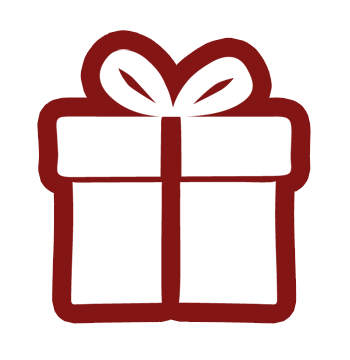
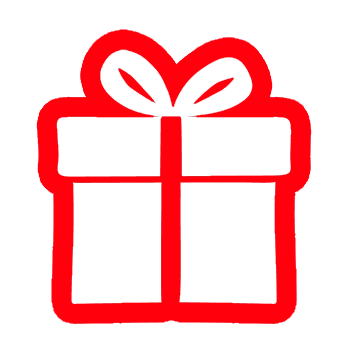
Backend integration proceed

diff --git a/frontend/app/views/index.scala.html b/frontend/app/views/index.scala.html
@@ -10,7 +10,7 @@
 
     <!-- Navigation -->
     <!-- Note: navbar-default and navbar-inverse are both supported with this theme. -->
-    <nav class="navbar navbar-inverse navbar-fixed-top navbar-expanded">
+    <nav id="index-nav" class="navbar navbar-inverse navbar-fixed-top navbar-expanded">
         <div class="container">
             <!-- Brand and toggle get grouped for better mobile display -->
             <div class="navbar-header">
@@ -21,7 +21,8 @@
                     <span class="icon-bar"></span>
                 </button>
                 <a class="navbar-brand page-scroll" href="#page-top">
-                    <img src='@routes.Assets.versioned("images/logo-blue.png")' class="img-responsive" alt="">
+                    @*<img src='@routes.Assets.versioned("images/logo-dark-red.png")' class="img-responsive" alt="">*@
+                    <i class="fa fa-gift"></i>
                 </a>
             </div>
             <!-- Collect the nav links, forms, and other content for toggling -->
@@ -33,19 +34,11 @@
                     <li>
                         <a class="page-scroll" href="#recommend">Find gifts</a>
                     </li>
-                    @*
-                    <li>
-                        <a class="page-scroll" href="#process">Process</a>
-                    </li>
-                    <li>
-                        <a class="page-scroll" href="#work">Work</a>
-                    </li>
-                    *@
-                    <li>
-                        <a class="page-scroll" href="#contact">Contact</a>
-                    </li>
                     <li>
                         <a class="page-scroll" href="#about">About</a>
+                    </li>
+                    <li>
+                        <a class="page-scroll" href="#contact">Contact</a>
                     </li>
                 </ul>
             </div>
@@ -55,9 +48,9 @@
     </nav>
     <header>
         <div class="intro-content">
-            @*<i class="fa fa-gift" style="font-size: 12em;"></i>*@
-            <img src='@routes.Assets.versioned("images/profile-red.png")' class="img-responsive img-centered" alt="">
-            <div class="brand-name">Gifty</div>
+            <i class="fa fa-gift"></i>
+            @*<img src='@routes.Assets.versioned("images/profile-red.png")' class="img-responsive img-centered" alt="">*@
+            <div class="brand-name">@title</div>
             <hr class="colored">
             <div class="brand-name-subtext">find best for those who matter</div>
         </div>
@@ -67,26 +60,18 @@
     </header>
 
 
-    @*
-    <!-- Header -->
-    <header id="top" class="header">
-        <div class="text-vertical-center">
-            <h1>Gifts matter</h1>
-            <h3>Great gifts for any people</h3>
-            <br>
-            <a href="#questions" class="btn btn-dark btn-lg">Find Out More</a>
-        </div>
-    </header>
-    *@
-
-
     <!-- Recommender -->
     <section id="recommend" class="about">
         <div class="container">
             <div class="row">
                 <div class="col-lg-12 text-center">
-                    <h2></h2>
+                    <h2>Find the best gifts</h2>
                     <p class="lead">Please, answer few questions about the gift receiver:</p>
+                    <form id="recommender-form" role="form">
+                        <div class="form-group">
+
+                        </div>
+                    </form>
                 </div>
             </div>
             <!-- /.row -->
@@ -94,23 +79,21 @@
         <!-- /.container -->
     </section>
 
-    @*
-    <footer class="footer" style="background-image: url('@routes.Assets.versioned("index-bg1.jpg")')">
-        <div class="container text-center">
+    <footer class="footer">
+        <div id="contact" class="container text-center">
             <div class="row">
                 <div class="col-md-4 contact-details">
-                    <h4><i class="fa fa-phone"></i> Call</h4>
-                    <p>555-213-4567</p>
-                </div>
-                <div class="col-md-4 contact-details">
-                    <h4><i class="fa fa-map-marker"></i> Visit</h4>
-                    <p>3481 Melrose Place
-                        <br>Beverly Hills, CA 90210</p>
-                </div>
-                <div class="col-md-4 contact-details">
                     <h4><i class="fa fa-envelope"></i> Email</h4>
-                    <p><a href="mailto:mail@example.com">mail@example.com</a>
+                    <p><a href="mailto:gifty-find&#64;gmail.com">gifty-find&#64;gmail.com</a>
                     </p>
+                </div>
+                <div class="col-md-4 contact-details">
+                    <h4><i class="fa fa-github-alt"></i> Contribute</h4>
+                    <p><a href="https://github.com/Azarieled/GiftRecommenderSystem" target="_blank">GitHub Project</a></p>
+                </div>
+                <div class="col-md-4 contact-details">
+                    <h4><i class="fa fa-phone"></i> Call</h4>
+                    <p>+380 (63) 666-14-48</p>
                 </div>
             </div>
             <div class="row social">
@@ -127,18 +110,19 @@
             </div>
             <div class="row copyright">
                 <div class="col-lg-12">
-                    <p class="small">&copy; 2015 Start Bootstrap Themes</p>
+                    <p class="small">&copy; 2015 @title</p>
                 </div>
             </div>
         </div>
     </footer>
-    *@
 
     <script src='@routes.Assets.versioned("lib/jquery-easing/jquery.easing.js")'></script>
     <script src='@routes.Assets.versioned("scripts/plugins/classie.js")'></script>
     <script src='@routes.Assets.versioned("scripts/plugins/cbpAnimatedHeader.js")'></script>
     <script src='@routes.Assets.versioned("lib/owl.carousel/dist/owl.carousel.js")'></script>
     <script src='@routes.Assets.versioned("lib/magnific-popup/dist/jquery.magnific-popup.js")'></script>
+    <script src='@routes.Assets.versioned("lib/mixitup/jquery.mixitup.js")'></script>
+    <script src='@routes.Assets.versioned("lib/WOW/wow.js")'></script>
     <script src='@routes.Assets.versioned("lib/jqbootstrapvalidation/jqBootstrapValidation.js")'></script>
     <script src='@routes.Assets.versioned("scripts/vitality.js")'></script>
     <!-- Vitality Theme Scripts -->

diff --git a/frontend/app/views/basic.scala.html b/frontend/app/views/basic.scala.html
@@ -14,9 +14,10 @@
 
     <!-- Fonts -->
     <link href="@routes.Assets.versioned("lib/font-awesome/css/font-awesome.min.css")" rel="stylesheet" type="text/css">
-    <!-- Default Fonts-->
+    <!-- Default Fonts -->
     <link href='http://fonts.googleapis.com/css?family=Roboto:400,100,100italic,300,300italic,400italic,500,500italic,700,700italic,900,900italic' rel='stylesheet' type='text/css'>
     <link href='http://fonts.googleapis.com/css?family=Raleway:400,100,200,300,600,500,700,800,900' rel='stylesheet' type='text/css'>
+
     <!-- Modern Style Fonts (Include these is you are using body.modern!)
     <link href='http://fonts.googleapis.com/css?family=Montserrat:400,700' rel='stylesheet' type='text/css'>
     <link href='http://fonts.googleapis.com/css?family=Cardo:400,400italic,700' rel='stylesheet' type='text/css'>
@@ -26,6 +27,7 @@
     <link href='http://fonts.googleapis.com/css?family=Cardo:400,400italic,700' rel='stylesheet' type='text/css'>
     -->
     @*<link href="http://fonts.googleapis.com/css?family=Source+Sans+Pro:300,400,700,300italic,400italic,700italic" rel="stylesheet" type="text/css">*@
+    <link href='https://fonts.googleapis.com/css?family=Kaushan+Script' rel='stylesheet' type='text/css'>
 
     <!-- IE8 support for HTML5 elements and media queries -->
     <!--[if lt IE 9]>

diff --git a/frontend/public/stylesheets/index.css b/frontend/public/stylesheets/index.css
@@ -1,5 +1,27 @@
 /* Global Styles */
 
+nav#index-nav {
+    padding-top: 10px;
+    padding-bottom: 10px;
+}
+
+div.intro-content > .brand-name, .intro-content > .brand-name-subtext {
+    font-family: 'Kaushan Script', cursive;
+}
+
+nav .fa-gift {
+    font-size: 2.2em;
+}
+
+div.intro-content > .fa-gift {
+    font-size: 12em;
+}
+
 header {
     background-image: url(../images/index-bg2d.jpg);
+}
+
+footer.footer {
+    background: linear-gradient( rgba(0, 0, 0, 0.6), rgba(0, 0, 0, 0.6) ), url(../images/contacts-3.jpg);
+    color: snow;
 }
